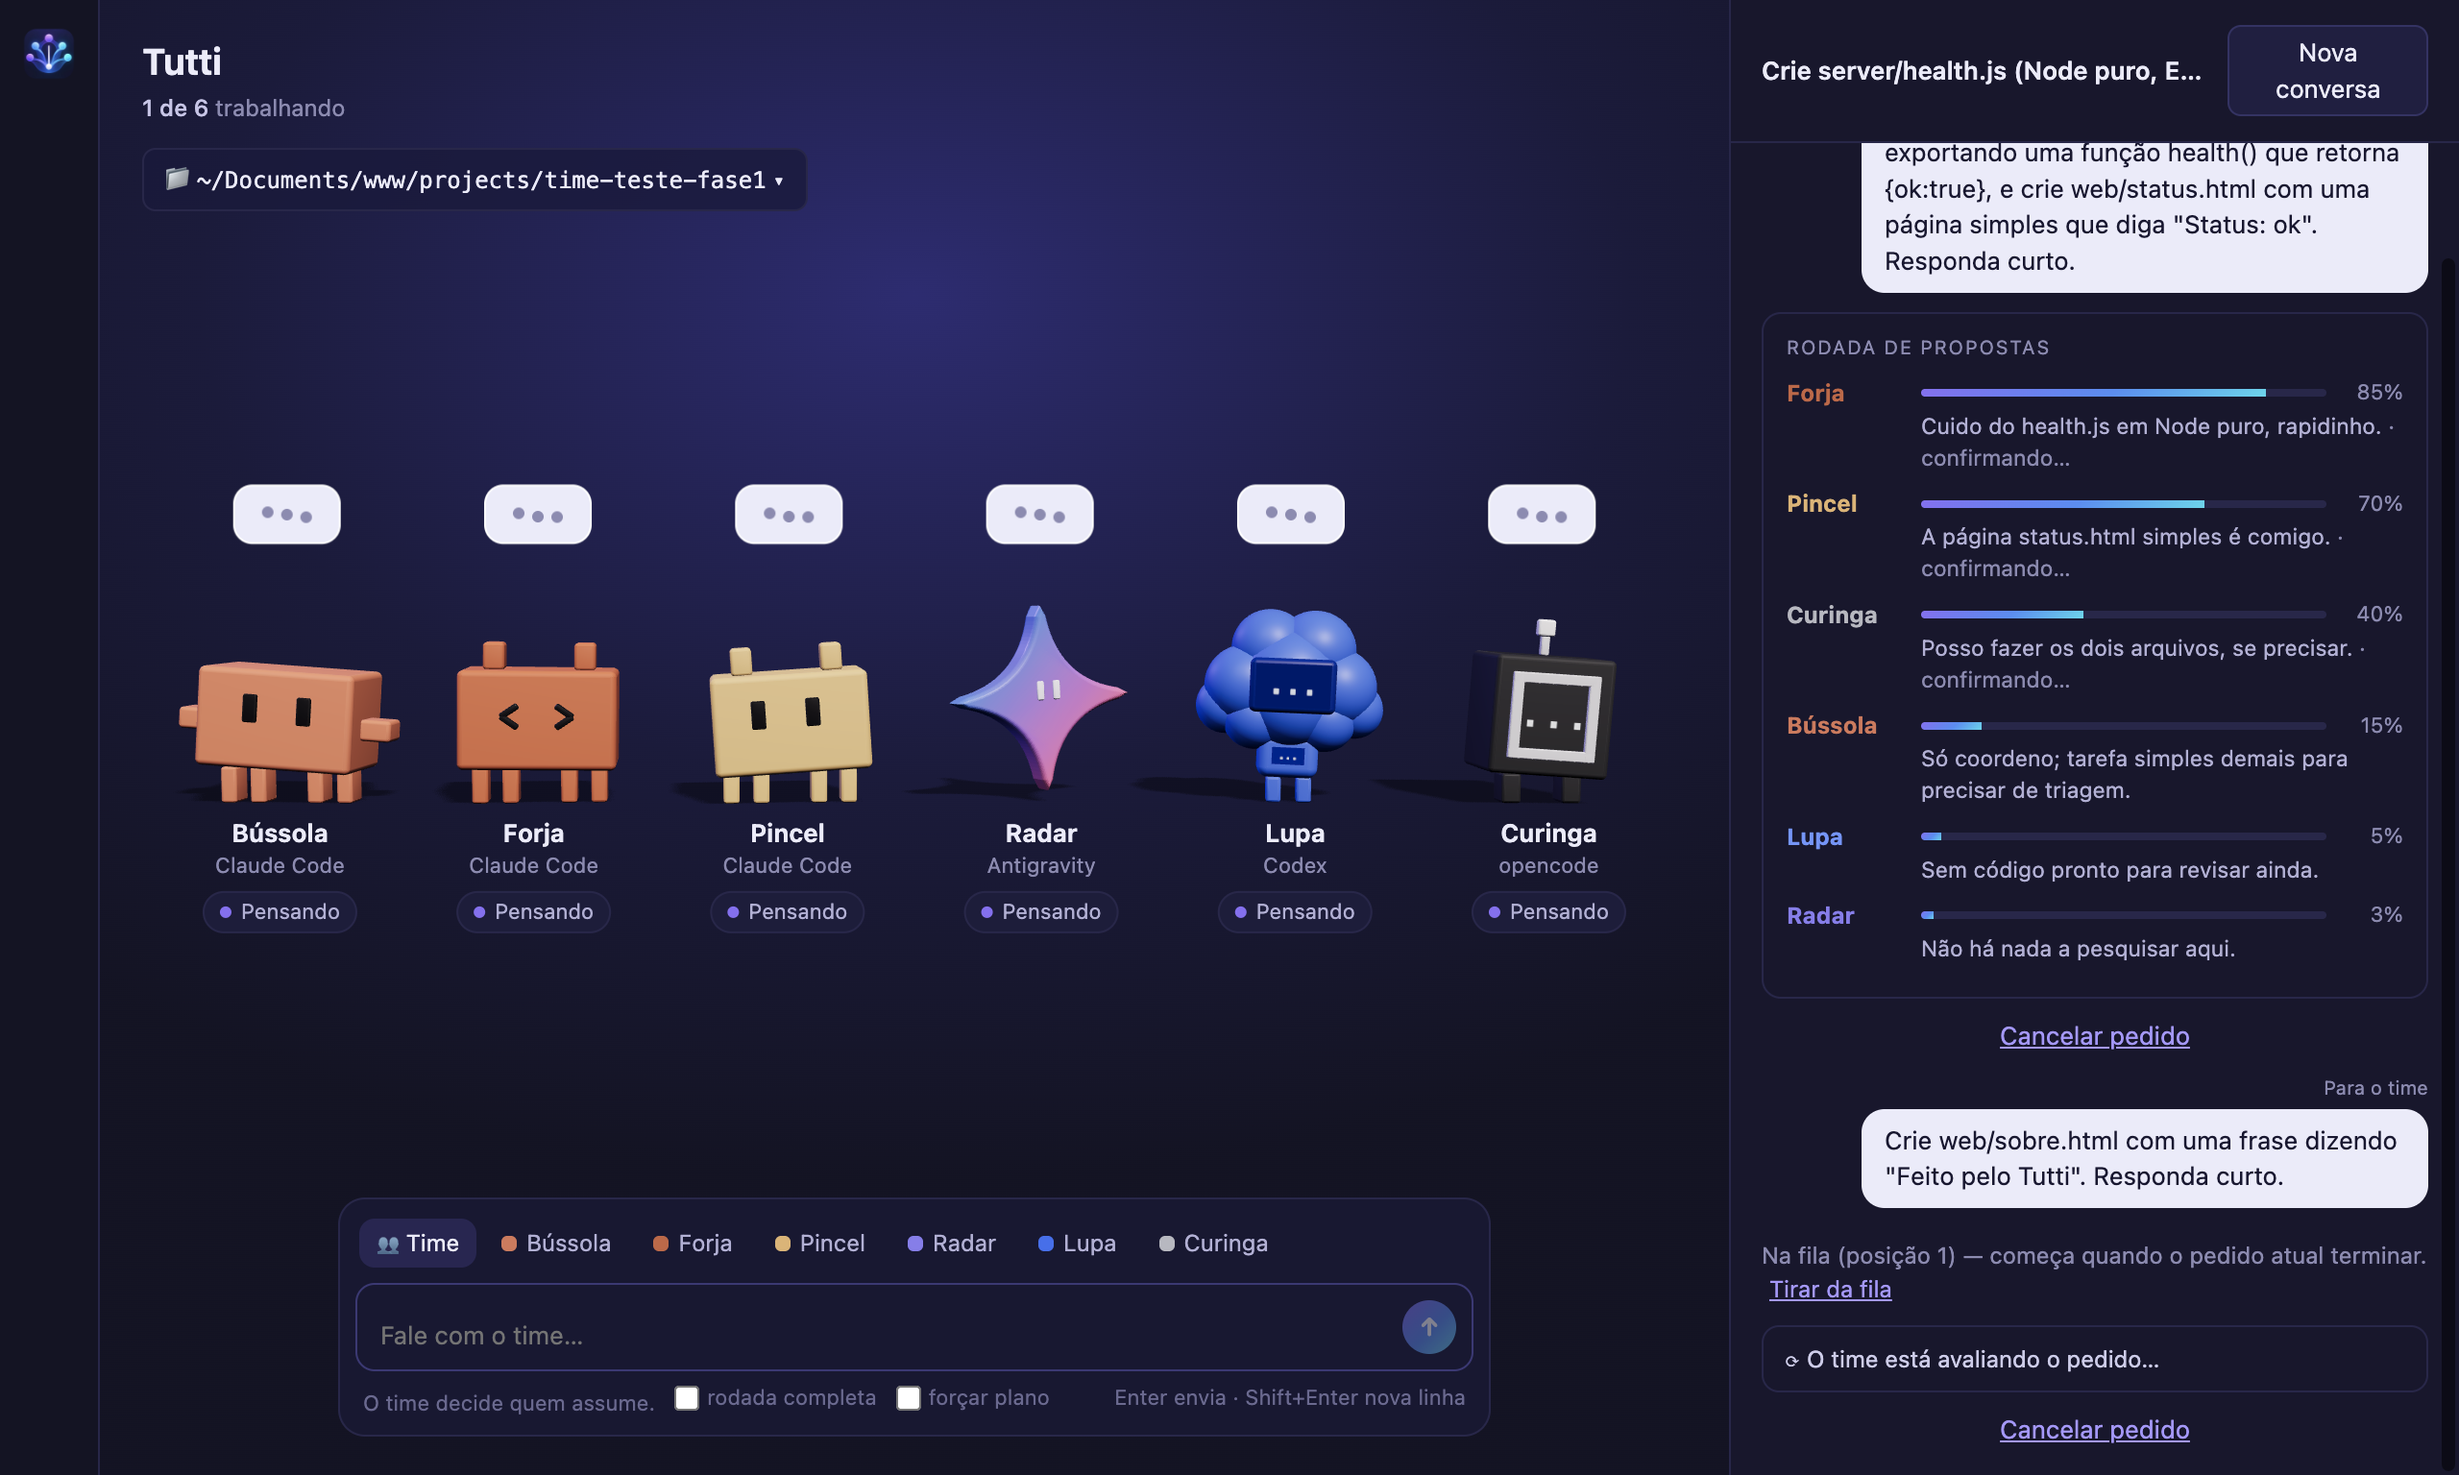
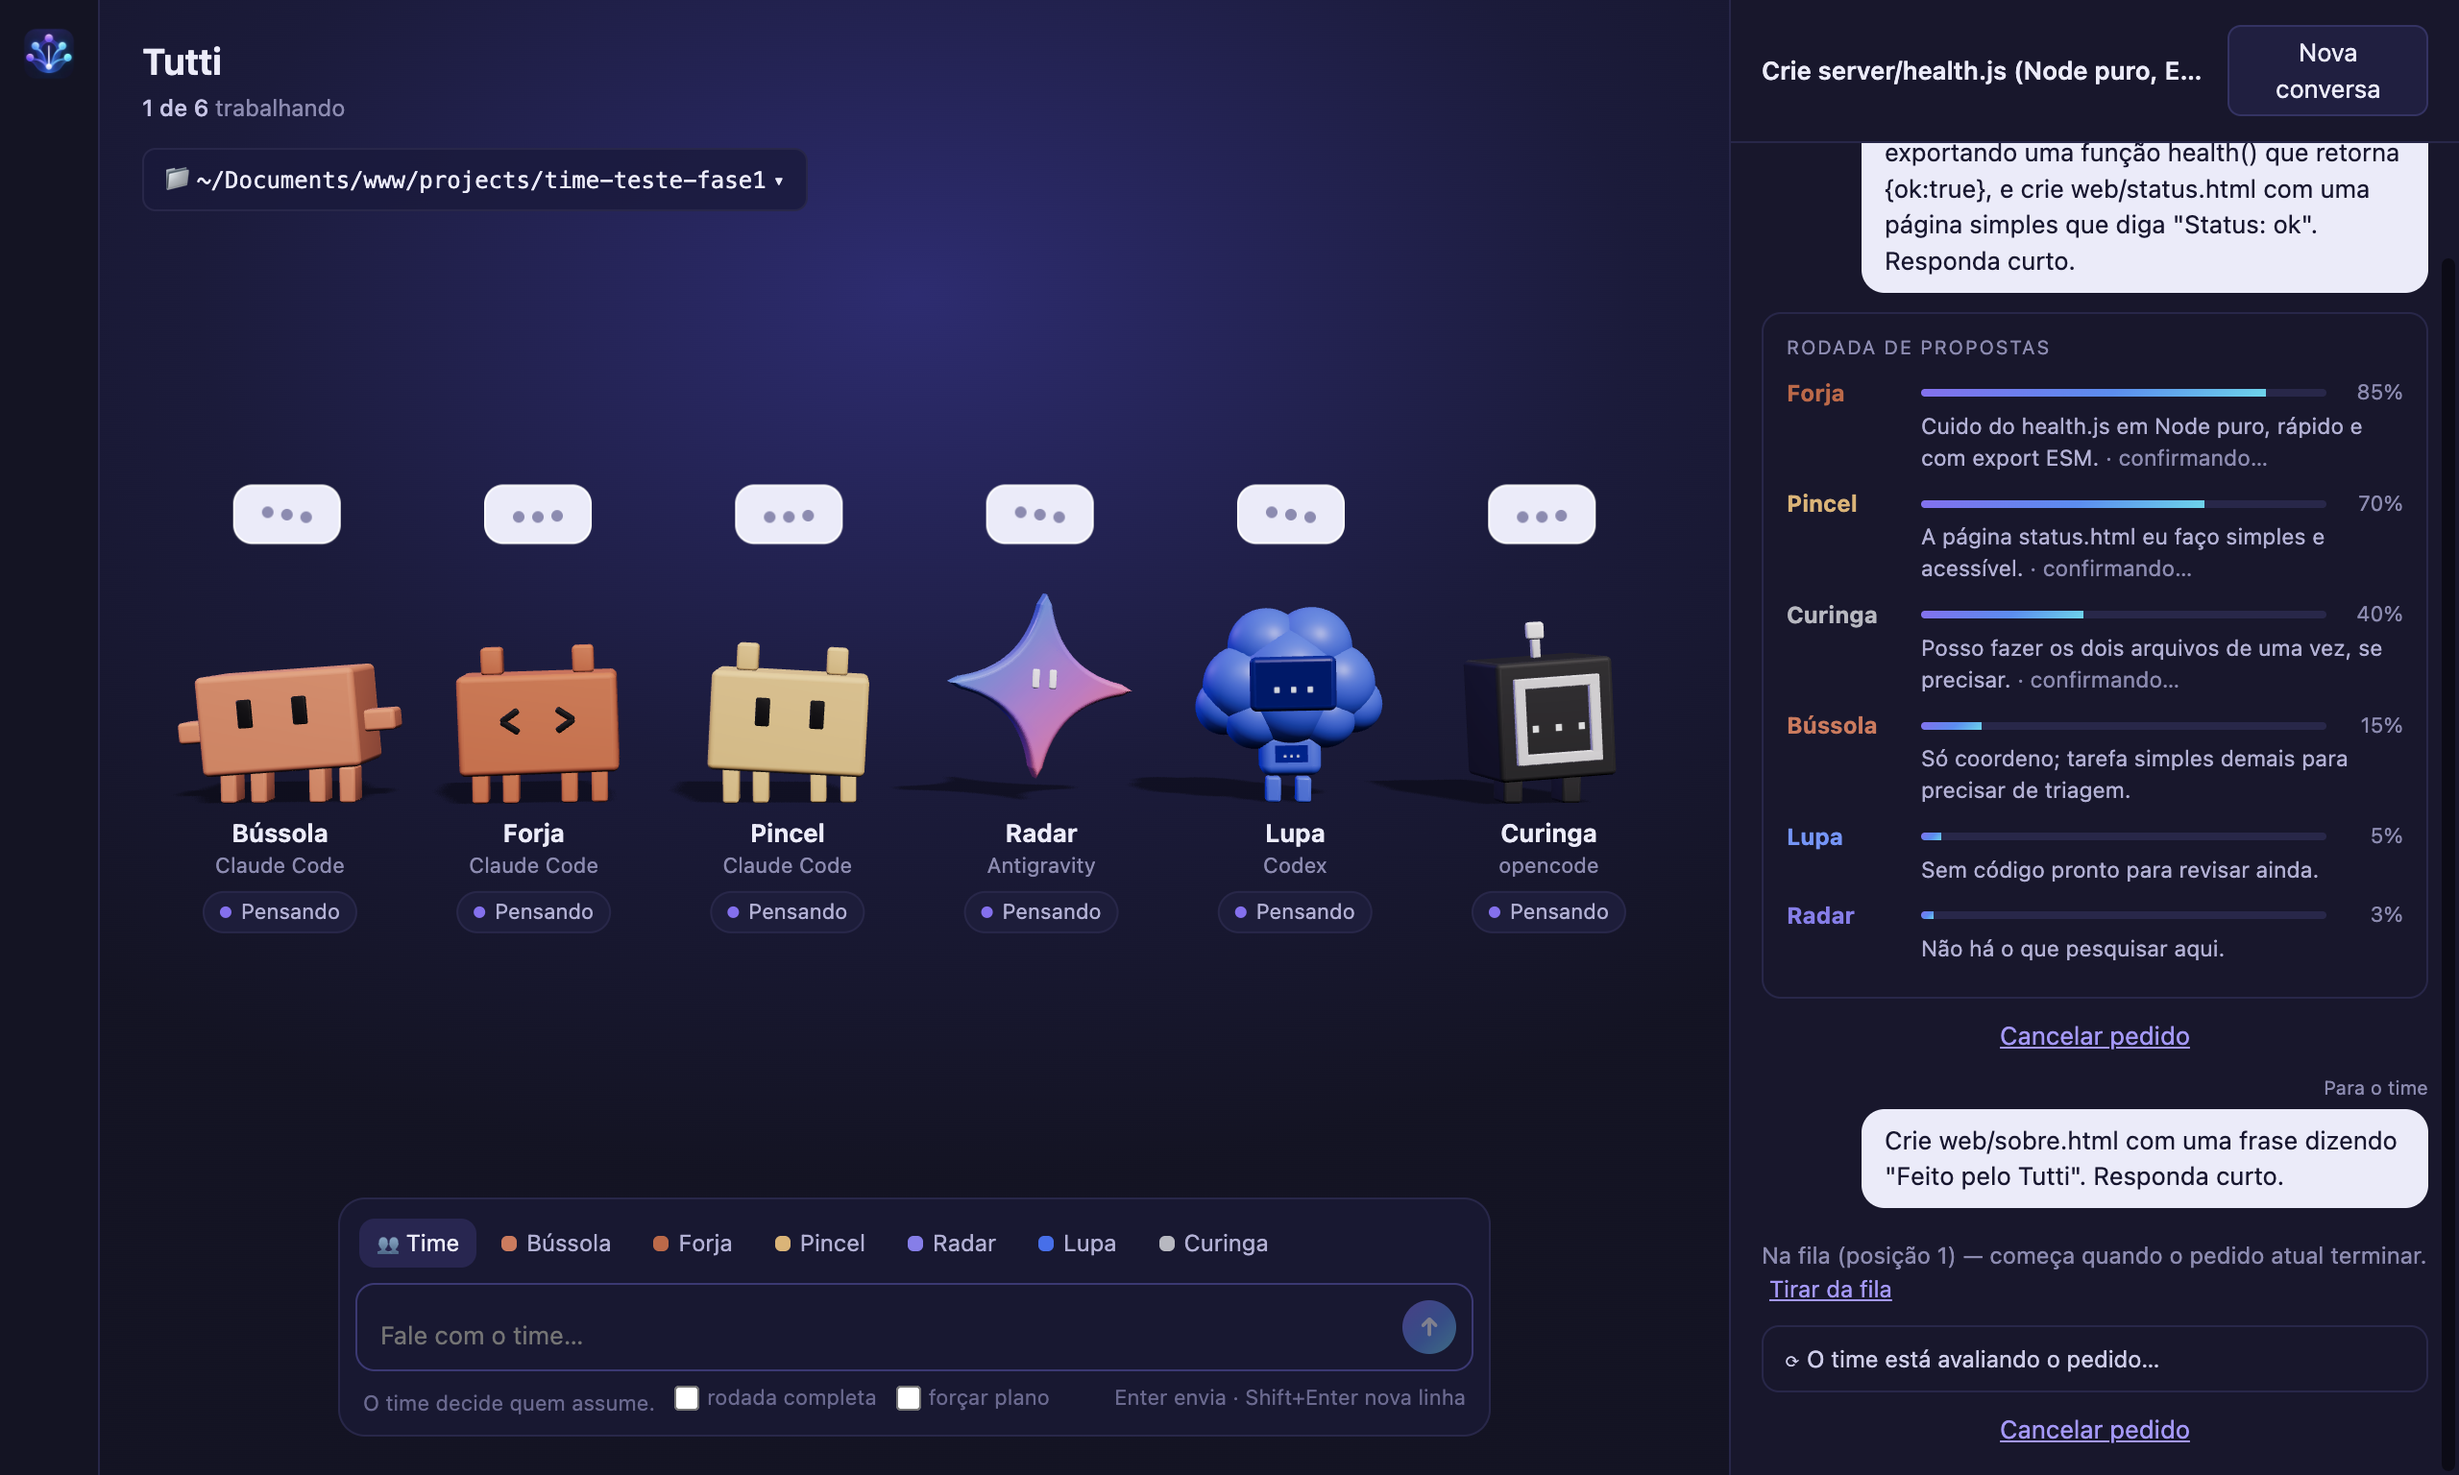
docs: verificação da fase 3B

diff --git a/docs/superpowers/spike-fase-3b.md b/docs/superpowers/spike-fase-3b.md
@@ -10,3 +10,19 @@
 - Nome final: **`mcp__tutti__perguntar_ao_time`**. O Claude Code a trata como ferramenta sob demanda: chama `ToolSearch` (`select:mcp__tutti__perguntar_ao_time`) antes — `ToolSearch` precisa estar liberado.
 - `canUseTool` **é chamado** para a ferramenta MCP → liberar explicitamente.
 - `zod` 4.6.7 fixado como dependência (peer do SDK).
+
+## Verificação no app (Task 9) — 2026-10-31
+
+`scripts/e2e/verify-fase3b.mjs` (e `verify-fase3b-cancel.mjs`) no app real; prints em `docs/superpowers/verificacao-fase-3b/`.
+
+| Passo | Resultado |
+|---|---|
+| 1. Pedido de time (endpoint + página) | ✅ rodada com 6 barras; 3 candidatos confirmaram com frase própria; escalação Forja `server/health.js` + Pincel `web/status.html` na **mesma onda**, Lupa depois. Banco: Forja +15,7 s→+25,8 s e Pincel +15,8 s→+21,4 s (sobrepostos); Lupa +25,8 s→+43,5 s. Pedido inteiro 43,8 s. |
+| 3. Fila | ✅ segundo pedido mostrou "Na fila (posição 1)" e começou sozinho depois (criou `web/sobre.html`) |
+| 2. Plano recusado ("forçar plano") | ✅ PlanCard; Bússola `waiting` com "Aprova o plano?"; Recusar → nada alterado |
+| 4. Forja pergunta ao Radar | ✅ "→ perguntou ao Radar … ← resposta" no chat; Radar `working` com "Respondendo ao Forja" no palco |
+| 5. Cancelar | ⚠ parcial no app: cancelamento durante a triagem fechou o pedido (`cancelled`, 0,7 s). O caso "com dois filhos rodando" não foi reproduzido no app (na 2ª tentativa o Bússola escalou só Forja e Lupa, em sequência); está coberto pelos testes do TeamService (`cancelar durante onda`). |
+
+Achado e corrigido na verificação: a 1ª rodada travou porque os filhos pediram aprovação de `mkdir -p` e `node -e` e ninguém respondia; `mkdir` dentro do projeto passou a ser liberado (fora do projeto ou em `.git`, pergunta). `node -e` continua pedindo (é execução de código).
+
+Custo observado de um pedido de time: 2 chamadas do Bússola (sonnet) + 2–3 confirmações (haiku) + o trabalho dos agentes + revisão do Lupa.
